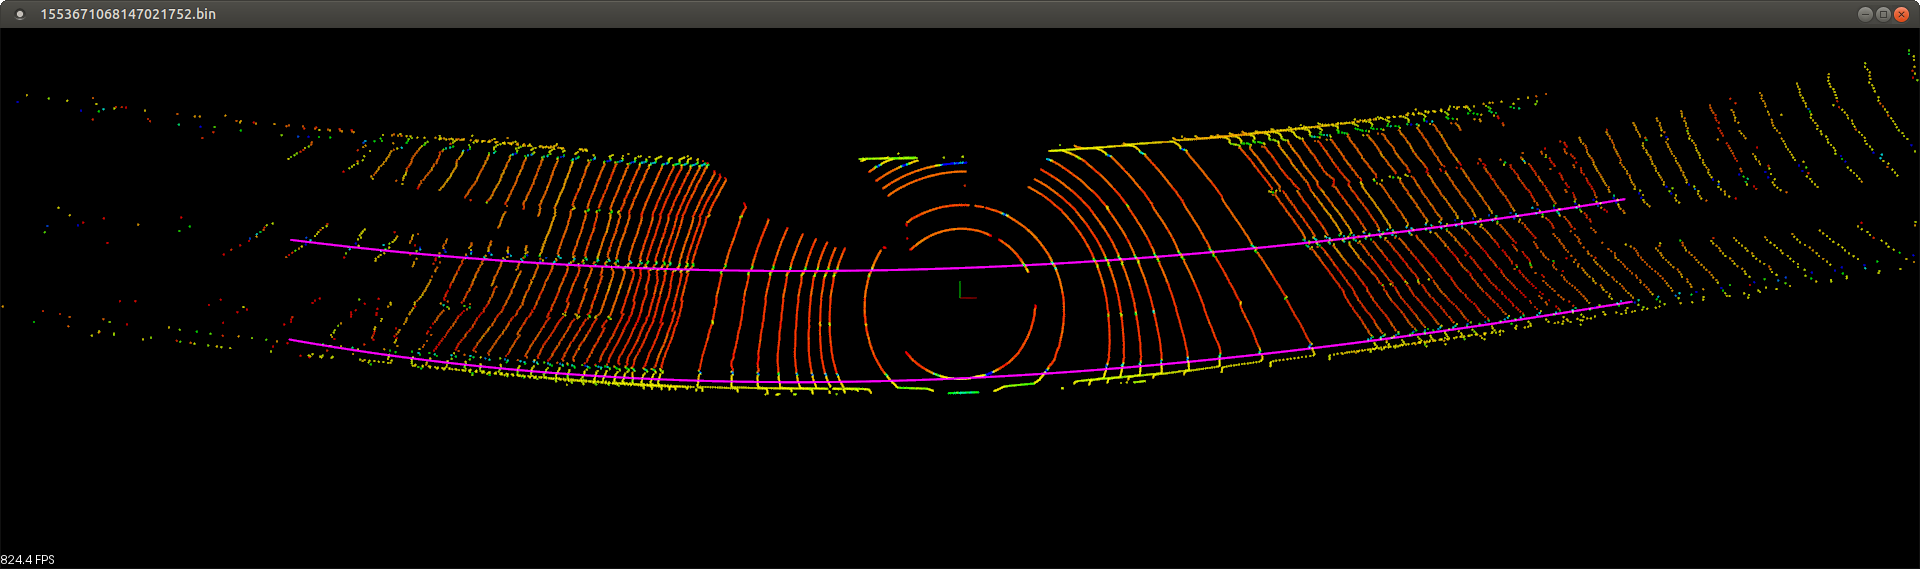
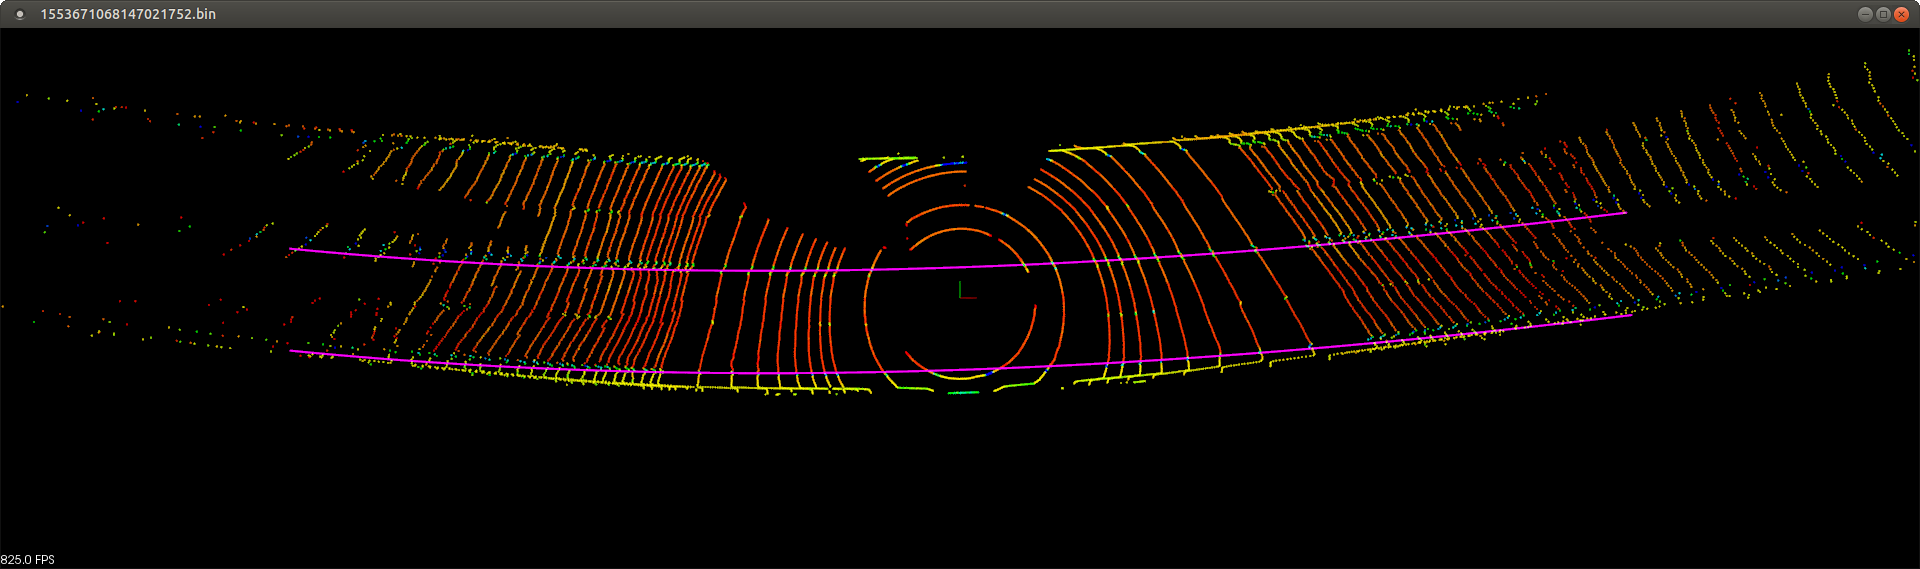
Improve algorythm for polynomial approximation

diff --git a/lines_detector.cpp b/lines_detector.cpp
@@ -27,7 +27,8 @@ constexpr float ADDITIONAL_SEGMENT_ANGLE = deg_2_rad(45.f);
 constexpr float MAX_ANGLE_DEV_IN_SEGMENT = deg_2_rad(35.f);
 constexpr float HOW_SEGMENT_IS_BETTER_COEF = 2.f;
 
-constexpr float NEAR_POINT_DIST_IN_POINT_SELECTION = 0.3f;
+constexpr int NUM_POINTS_PER_SEGMENT_IN_POLYNOMIAL_APPROXIMATION{20};
+constexpr float PART_OF_LINE_WITH_POINTS_IN_POLYNOMIAL_APPROXIMATION{0.4f};
 
 const float MAX_ANGLE_DEVIATION_TAN = std::tan(MAX_ANGLE_DEVIATION);
 const float MIN_ANGLE_DEV_IN_SEGMENT_COS = std::cos(MAX_ANGLE_DEV_IN_SEGMENT);
@@ -400,50 +401,6 @@ WeightedLinesPair get_best_segment_pair(const WeightedLinesPair& best_main_pair,
   return best_segment_pair;
 }
 
-template <typename Comp>
-Eigen::MatrixXf fuse_segments(const PointCloudSegments& left_right_segments,
-                              float x_start, Comp comparer)
-{
-  std::array<std::vector<int>, 2> indices;
-  for (std::size_t segment_id{0u}; segment_id < LeftRightSegment::Size; ++segment_id) {
-    for (int id{0}; id < left_right_segments[segment_id].rows(); ++id)
-    {
-      const float point_x = left_right_segments[segment_id].row(id).x();
-      if (comparer(point_x, x_start)) { // point_x < x_start for left part and point_x > x_start for right part
-        indices[segment_id].push_back(id);
-      }
-    }
-  }
-  const std::size_t total_indices = indices[LeftRightSegment::Left].size() + indices[LeftRightSegment::Right].size();
-  Eigen::MatrixXf result{total_indices, 2};
-  int result_id{0};
-  for (std::size_t segment_id{0u}; segment_id < LeftRightSegment::Size; ++segment_id) {
-    for (int id : indices[segment_id])
-    {
-      result.row(result_id) = left_right_segments[segment_id].row(id);
-      ++result_id;
-    }
-  }
-  return result;
-}
-
-Eigen::MatrixXf get_near_points_in_segment(const Eigen::Vector3f& line, const Eigen::MatrixXf& points)
-{
-  std::vector<int> indices;
-  for (int id{0}; id < points.rows(); ++id) {
-    if (point_fits_line(points.row(id), line, NEAR_POINT_DIST_IN_POINT_SELECTION)) {
-      indices.push_back(id);
-    }
-  }
-  Eigen::MatrixXf result_points{indices.size(), 2};
-  int result_id{0};
-  for (int id : indices) {
-    result_points.row(result_id) = points.row(id);
-    ++result_id;
-  }
-  return result_points;
-}
-
 Eigen::MatrixXf concatenate_points(const std::initializer_list<const Eigen::MatrixXf*>& point_matrices)
 {
   Eigen::MatrixXf result;
@@ -523,7 +480,6 @@ PolynomialsVector find_lines(const PointsVector& cloud, const Vec2D& main_direct
 
   // Find best lines in left additional segments
   WeightedLinesSet left_segment_results;
-  std::array<Eigen::MatrixXf, UpDownSegment::Size> left_segment_points;
   for (std::size_t segment_id{0u}; segment_id < UpDownSegment::Size; ++segment_id) {
     const auto& main_line_coefs = best_main_pair[segment_id].second;
     const Line main_line{main_line_coefs};
@@ -547,17 +503,11 @@ PolynomialsVector find_lines(const PointsVector& cloud, const Vec2D& main_direct
     best_lines.merge(find_best_lines_in_segment(down_segments, main_line_coefs, segment_x_middle, std::less<float>{}));
     main_pair_scores[segment_id] = score_line(main_line_coefs, up_segments) + score_line(main_line_coefs, down_segments);
     left_segment_results[segment_id] = best_lines.obtain_list();
-
-    const float points_segment_x_start = -cloud_length / 2.f * MAIN_PART_RELATIVE_SIZE;
-    Eigen::MatrixXf up_segment_points = fuse_segments(up_segments, points_segment_x_start, std::less<float>{});
-    Eigen::MatrixXf down_segment_points = fuse_segments(down_segments, points_segment_x_start, std::less<float>{});
-    left_segment_points[segment_id] = concatenate_points({&up_segment_points, &down_segment_points});
   }
   const auto best_left_segment_pair = get_best_segment_pair(best_main_pair, main_pair_scores, left_segment_results);
 
   // Find best lines in right additional segments
   WeightedLinesSet right_segment_results;
-  std::array<Eigen::MatrixXf, UpDownSegment::Size> right_segment_points;
   for (std::size_t segment_id{0u}; segment_id < UpDownSegment::Size; ++segment_id) {
     const auto& main_line_coefs = best_main_pair[segment_id].second;
     const Line main_line{main_line_coefs};
@@ -581,21 +531,37 @@ PolynomialsVector find_lines(const PointsVector& cloud, const Vec2D& main_direct
     best_lines.merge(find_best_lines_in_segment(down_segments, main_line_coefs, segment_x_middle, std::greater<float>{}));
     main_pair_scores[segment_id] = score_line(main_line_coefs, up_segments) + score_line(main_line_coefs, down_segments);
     right_segment_results[segment_id] = best_lines.obtain_list();
-
-    const float points_segment_x_start = cloud_length / 2.f * MAIN_PART_RELATIVE_SIZE;
-    Eigen::MatrixXf up_segment_points = fuse_segments(up_segments, points_segment_x_start, std::greater<float>{});
-    Eigen::MatrixXf down_segment_points = fuse_segments(down_segments, points_segment_x_start, std::greater<float>{});
-    right_segment_points[segment_id] = concatenate_points({&up_segment_points, &down_segment_points});
   }
   const auto best_right_segment_pair = get_best_segment_pair(best_main_pair, main_pair_scores, right_segment_results);
 
   PolynomialsVector result{};
   for (std::size_t segment_id{0u}; segment_id < UpDownSegment::Size; ++segment_id) {
-    // Find points which lay near lines in each segment
-    auto left_segment_line_points = get_near_points_in_segment(best_left_segment_pair[segment_id].second, left_segment_points[segment_id]);
-    auto main_segment_line_points = get_near_points_in_segment(best_main_pair[segment_id].second, main_segment_points[segment_id]);
-    auto right_segment_line_points = get_near_points_in_segment(best_right_segment_pair[segment_id].second, right_segment_points[segment_id]);
-    auto line_points = concatenate_points({&left_segment_line_points, &main_segment_line_points, &right_segment_line_points});
+    // Approximate lines with polynomial
+    const Line left_line{best_left_segment_pair[segment_id].second};
+    const Line main_line{best_left_segment_pair[segment_id].second};
+    const Line right_line{best_right_segment_pair[segment_id].second};
+    const float left_x = cloud_down_left.x();
+    const float main_x = -cloud_length / 2.f * PART_OF_LINE_WITH_POINTS_IN_POLYNOMIAL_APPROXIMATION;
+    const float right_x = cloud_length - cloud_length / 2.f * PART_OF_LINE_WITH_POINTS_IN_POLYNOMIAL_APPROXIMATION;
+    const auto left_data = std::make_pair(left_x, left_line);
+    const auto main_data = std::make_pair(main_x, main_line);
+    const auto right_data = std::make_pair(right_x, right_line);
+
+    const float x_step = cloud_length / 2.f * PART_OF_LINE_WITH_POINTS_IN_POLYNOMIAL_APPROXIMATION
+        / NUM_POINTS_PER_SEGMENT_IN_POLYNOMIAL_APPROXIMATION;
+    int row_id{0};
+    Eigen::MatrixXf line_points{NUM_POINTS_PER_SEGMENT_IN_POLYNOMIAL_APPROXIMATION * 3, 2};
+
+    for (const auto& [x_start, line] : {left_data, main_data, right_data}) {
+      float x = x_start;
+      for (int i{0}; i < NUM_POINTS_PER_SEGMENT_IN_POLYNOMIAL_APPROXIMATION; ++i) {
+        float y = line.get_y(x);
+        line_points.row(row_id) = Eigen::Vector2f{x, y};
+        ++row_id;
+        x += x_step;
+      }
+    }
+
     // Rotate points to the original coordinales system
     rotate_matrix(line_points, main_direction_angle);
     // Approximate points by a polynomial

diff --git a/README.md b/README.md
@@ -114,7 +114,8 @@ For simplification of calculations at this stage, it is assumed that all points 
   region are discarded, and lines from the main region are used instead.
 ### 3.2.9. Rotating the Set of Points Located Along the Found Lines to Return Them to the Original Orientation of the Road.
 ### 3.2.10. Approximating the Set of Points Located Along the Lines with a Third-Order Polynomial.
-- Points located near the lines in corresponding segments are selected
+- Points lying on straight lines from various segments are generated.
+  For the main segment, points are generated in the middle, for additional segments - points closer to the edges of the point cloud.
 - The points are approximated with a third-order polynomial using the least squares metho
 
 ![Screenshot 5.1](images/5.1.png)
